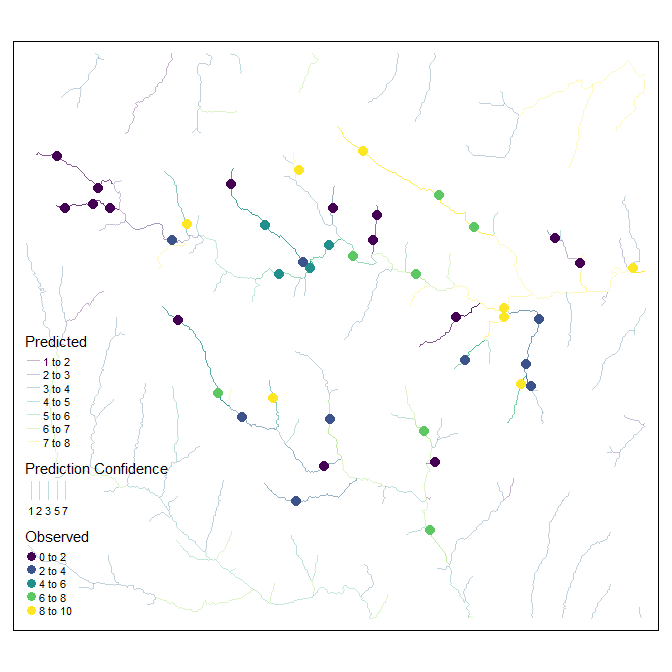
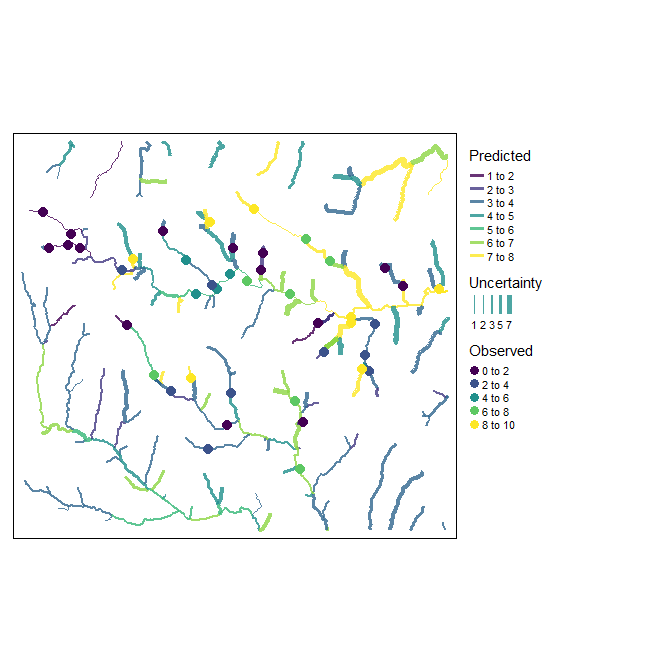
updated readme, and tweaked attrib_points handling of spec table

diff --git a/README.md b/README.md
@@ -53,7 +53,7 @@ ihydro: Integrated hydrology tools for environmental science
 
 ## 1.0 Introduction
 
-<img src="man/figures/README-unnamed-chunk-8-1.png" width="75%" style="display: block; margin: auto;" />
+<img src="man/figures/README-unnamed-chunk-9-1.png" width="75%" style="display: block; margin: auto;" />
 
 Aquatic environmental scientists are often interested in relating
 landscape features to observed responses (e.g., fish size, water
@@ -79,7 +79,7 @@ geology, climate, etc.) must be related to the reach (or sampling
 points). This alone can be complex as the spatial configuration of these
 factors relative to flow direction and accumulation can be important
 important (Peterson ***et al.***, 2011). The ***ihydro*** package uses
-the ***hydroweight*** package (Kielstra et al. 2021) to calculate these
+***hydroweight*** (Kielstra ***et al.*** 2021) to calculate these
 attributes.
 
 The complexity of this workflow can be a rate limiting step in the
@@ -117,7 +117,7 @@ can be run in parallel for increased speed (if enough memory is
 available), and are quick at removing internal intermediate files to
 keep hard drives from filling up too fast.
 
-\[Back to top\]#10-introduction)
+[Back to top](#10-introduction)
 
 ## 2.0 System setup and installation
 
@@ -155,7 +155,7 @@ if (F){
 }
 ```
 
-\[Back to top\]#10-introduction)
+[Back to top](#10-introduction)
 
 ## 3.0 Prepare DEM and Sampling Points for for analysis
 
@@ -247,7 +247,7 @@ plot(toy_dem)
 
 <img src="man/figures/README-unnamed-chunk-3-1.png" width="100%" />
 
-\[Back to top\]#10-introduction)
+[Back to top](#10-introduction)
 
 ### 3.2 Generate predictor layers
 
@@ -323,7 +323,7 @@ plot(rast(loi_combined$num_inputs),type="continuous")
 
 <img src="man/figures/README-unnamed-chunk-5-1.png" width="100%" />
 
-\[Back to top\]#10-introduction)
+[Back to top](#10-introduction)
 
 ## 4.0 Generate geospatial analysis products
 
@@ -381,7 +381,7 @@ plot(log10(flow_accum))
 
 <img src="man/figures/README-unnamed-chunk-6-1.png" width="100%" />
 
-\[Back to top\]#10-introduction)
+[Back to top](#10-introduction)
 
 #### 4.1.2 Generate vector geospatial analysis products with `generate_vectors()`
 
@@ -427,7 +427,7 @@ tm_shape(hydro_out$subbasins) + tm_polygons(col="link_id",palette = "viridis",al
 
 <img src="man/figures/README-unnamed-chunk-7-1.png" width="100%" />
 
-\[Back to top\]#10-introduction)
+[Back to top](#10-introduction)
 
 #### 4.1.3 Split vector geospatial analysis products at sampling points `insert_points()`
 
@@ -478,7 +478,7 @@ tm_shape(hydro_out$subbasins) + tm_polygons(col="white",alpha =0.2,legend.show=F
 
 <img src="man/figures/README-unnamed-chunk-8-1.png" width="100%" />
 
-\[Back to top\]#10-introduction)
+[Back to top](#10-introduction)
 
 #### 4.1.4 Create lookup table of flow-directions with `trace_flowpaths()`
 
@@ -524,7 +524,7 @@ tm_shape(sub_out) + tm_polygons(col="white",alpha =0.2,legend.show=F) +
 
 <img src="man/figures/README-unnamed-chunk-9-1.png" width="100%" />
 
-\[Back to top\]#10-introduction)
+[Back to top](#10-introduction)
 
 #### 4.1.5 Generate complete upstream catchment areas with `get_catchment()`
 
@@ -551,7 +551,7 @@ tm_shape(bind_rows(subbasin_catchments,point_catchments)) + tm_polygons(col="whi
 
 <img src="man/figures/README-unnamed-chunk-10-1.png" width="100%" />
 
-\[Back to top\]#10-introduction)
+[Back to top](#10-introduction)
 
 #### 4.1.6 Generate pairwise distances with `generate_pwisedist()`
 
@@ -740,7 +740,7 @@ ggplot(dmat,aes(x=prop_shared_catchment,y=value_diff))+
 
 <img src="man/figures/README-unnamed-chunk-14-1.png" width="100%" />
 
-\[Back to top\]#10-introduction)
+[Back to top](#10-introduction)
 
 ### 4.2 METHOD 2: With a single function
 
@@ -790,7 +790,7 @@ tm_shape(read_sf(file.path("/vsizip",hydro_out_sparse$outfile,"Subbasins_poly.sh
 
 <img src="man/figures/README-unnamed-chunk-15-1.png" width="100%" />
 
-\[Back to top\]#10-introduction)
+[Back to top](#10-introduction)
 
 ## 5.0 Add layers of interest to geospatial analysis products with `process_loi()`
 
@@ -828,7 +828,7 @@ if (F) {
 }
 ```
 
-\[Back to top\]#10-introduction)
+[Back to top](#10-introduction)
 
 ## 6.0 Calculate (weighted) spatial summaries
 
@@ -911,7 +911,7 @@ plot(rast(
 
 <img src="man/figures/README-unnamed-chunk-18-1.png" width="100%" />
 
-\[Back to top\]#10-introduction)
+[Back to top](#10-introduction)
 
 ### 6.2 At all sampling points `attrib_points()`
 
@@ -967,7 +967,7 @@ final_attributes_samples
 #> #   pontsrc_pontsrc_HAiFLO_prop <dbl>, LC_1_HAiFLS_prop <dbl>, …
 ```
 
-\[Back to top\]#10-introduction)
+[Back to top](#10-introduction)
 
 ### 6.3 Across entire study area `attrib_points()`
 
@@ -975,10 +975,17 @@ final_attributes_samples
 
 # Warning this operation can be very slow - but we will use our sparse
 # hydrology network to speed up calculations
+
+specification_table<-tibble(
+  link_id=read_sf(file.path("/vsizip",hydro_out_sparse$outfile,"stream_links.shp"))$link_id,
+  loi=list(loi_names)
+)
+
 final_attributes_all<-attrib_points(
   input=hydro_out_sparse,
+  spec = specification_table,
   loi_file=output_filename_loi,
-  all_reaches=T, # This will calculate attributes for each reach
+  all_reaches=F, # This will calculate attributes for each reach
   weighting_scheme = c("HAiFLO", "HAiFLS"),
   loi_numeric_stats = c("distwtd_mean"),
   OS_combine=F,
@@ -1008,7 +1015,7 @@ final_attributes_all
 #> #   pontsrc_pontsrc_HAiFLO_prop <dbl>, LC_1_HAiFLS_prop <dbl>, …
 ```
 
-\[Back to top\]#10-introduction)
+[Back to top](#10-introduction)
 
 ## 7.0 Example Model
 
@@ -1076,7 +1083,7 @@ comb_data<-response_table %>%
       mutate(origin=paste0("Prop_catch_",origin)) %>%
       pivot_wider(names_from=origin,values_from=prop_shared_catchment,values_fill=0)
   ) %>%
-  left_join(clust_data)
+left_join(clust_data)
 ```
 
 Then, we’ll follow the tidymodels workflow from here:
@@ -1141,16 +1148,16 @@ map_dfr(final_out,show_best,5,metric = "rmse",.id="Cross-validation strategy")
 #> # A tibble: 10 × 10
 #>    Cross-validat…¹  mtry trees min_n .metric .esti…²  mean     n std_err .config
 #>    <chr>           <int> <int> <int> <chr>   <chr>   <dbl> <int>   <dbl> <chr>  
-#>  1 standard           76   973     9 rmse    standa…  2.83     5   0.207 Prepro…
-#>  2 standard           60  1790    12 rmse    standa…  2.84     5   0.208 Prepro…
-#>  3 standard           63   381    17 rmse    standa…  2.84     5   0.204 Prepro…
-#>  4 standard           46  1738    10 rmse    standa…  2.84     5   0.208 Prepro…
-#>  5 standard           71  1315     4 rmse    standa…  2.84     5   0.202 Prepro…
-#>  6 spatial             7   162    39 rmse    standa…  3.03     5   0.247 Prepro…
-#>  7 spatial            47   475    34 rmse    standa…  3.04     5   0.227 Prepro…
-#>  8 spatial            12  1929    35 rmse    standa…  3.04     5   0.241 Prepro…
-#>  9 spatial             9  1733    32 rmse    standa…  3.04     5   0.239 Prepro…
-#> 10 spatial             2   582    26 rmse    standa…  3.04     5   0.242 Prepro…
+#>  1 standard           60    81    10 rmse    standa…  2.80     5   0.219 Prepro…
+#>  2 standard           64  1894    11 rmse    standa…  2.83     5   0.205 Prepro…
+#>  3 standard           72  1796     8 rmse    standa…  2.83     5   0.206 Prepro…
+#>  4 standard           47  1462    15 rmse    standa…  2.84     5   0.207 Prepro…
+#>  5 standard           54   475    10 rmse    standa…  2.84     5   0.213 Prepro…
+#>  6 spatial             8  1505    37 rmse    standa…  3.03     5   0.241 Prepro…
+#>  7 spatial            54   268    37 rmse    standa…  3.04     5   0.228 Prepro…
+#>  8 spatial            37   573    34 rmse    standa…  3.04     5   0.230 Prepro…
+#>  9 spatial            54  1798    40 rmse    standa…  3.05     5   0.236 Prepro…
+#> 10 spatial            17  1188    32 rmse    standa…  3.05     5   0.237 Prepro…
 #> # … with abbreviated variable names ¹`Cross-validation strategy`, ².estimator
 ```
 
@@ -1202,18 +1209,7 @@ lkp<-read_sf(file.path("/vsizip",hydro_out_sparse$outfile,"stream_links.shp")) %
   select(site_id,link_id) %>% 
   rename(sparse_link_id=link_id) %>% 
   st_join(hydro_out$links %>% select(link_id) %>%  rename(comp_link_id=link_id))
-
-tm_shape(read_sf(file.path("/vsizip",hydro_out_sparse$outfile,"Subbasins_poly.shp"))) + 
-  tm_polygons(col="white",alpha =0.2,legend.show=F) +
-  tm_shape(read_sf(file.path("/vsizip",hydro_out_sparse$outfile,"stream_lines.shp"))) +
-  tm_lines(col="blue",alpha =0.3,legend.show=F,lwd =2) +
-  tm_shape(read_sf(file.path("/vsizip",hydro_out_sparse$outfile,"stream_links.shp"))) +
-  tm_dots(legend.show=F,size=0.45,border.col="black",border.alpha=1,border.lwd=1)+
-  tm_shape(lkp)+
-  tm_dots(col="comp_link_id",palette = "viridis")
 ```
-
-<img src="man/figures/README-unnamed-chunk-24-1.png" width="100%" />
 
 We now need to build a data set for our prediction sites.
 
@@ -1222,6 +1218,7 @@ We now need to build a data set for our prediction sites.
 prediction_data<-lkp %>% 
   as_tibble() %>% 
   mutate(comp_link_id=as.character(comp_link_id)) %>% 
+  mutate(site_id=as.numeric(site_id)) %>% 
   select(link_id=sparse_link_id,comp_link_id,site_id) %>% 
   left_join(
     final_attributes_all %>%
@@ -1260,11 +1257,11 @@ prediction_tbl<-tibble(
       as_tibble() %>% 
       setNames(c("p25","p50","p75"))
   ) %>% 
-  mutate(`Prediction Confidence` = p75-p25,
+  mutate(`Uncertainty` = p75-p25,
          `Predicted`=p50)
 
 Streams<-read_sf(file.path("/vsizip",hydro_out_sparse$outfile,"stream_lines.shp")) %>% 
-  mutate(link_id=floor(link_id)) %>% #this will assign the predicted value to the entire reach,
+  #mutate(link_id=floor(link_id)) %>% #this will assign the predicted value to the entire reach,
   #not just the unsampled portion
   left_join(prediction_tbl)
 
@@ -1273,11 +1270,11 @@ Points<-read_sf(file.path("/vsizip",hydro_out_sparse$outfile,"snapped_points.shp
   left_join(response_table %>% select(-link_id)) %>% 
   mutate(Observed=value)
 
-
 tm_shape(Streams) + 
-  tm_lines(col="Predicted", palette = "viridis",alpha =0.3,legend.show=T,lwd ="Prediction Confidence") +
+  tm_lines(col="Predicted", palette = "viridis",alpha =0.8,legend.show=T,lwd ="Uncertainty",scale=5) +
   tm_shape(Points) + 
-  tm_dots(col="Observed", palette = "viridis",legend.show=T,size=0.45,border.col="black",border.alpha=1,border.lwd=1)
+  tm_dots(col="Observed", palette = "viridis",legend.show=T,size=0.45,border.col="black",border.alpha=1,border.lwd=1)+
+  tm_layout(legend.outside = TRUE)
 ```
 
 <img src="man/figures/README-unnamed-chunk-26-1.png" width="100%" />
@@ -1319,4 +1316,4 @@ fluvial variography: characterizing spatial dependence on stream
 networks. Journal of Computational and Graphical Statistics 26.2
 253-264. <https://doi.org/10.1080/10618600.2016.1247006>
 
-\[Back to top\]#10-introduction)
+[Back to top](#10-introduction)
